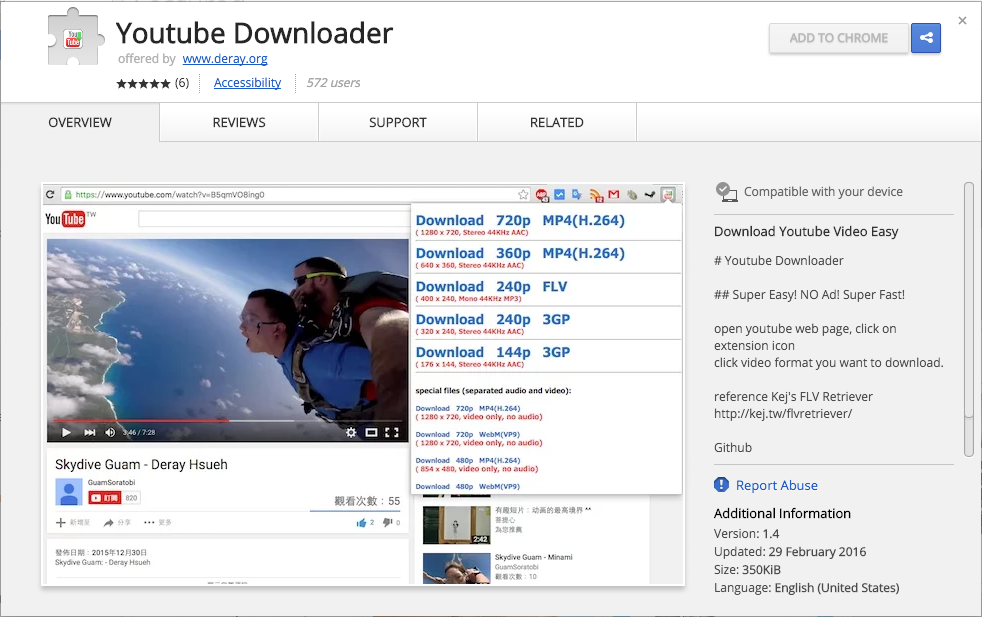
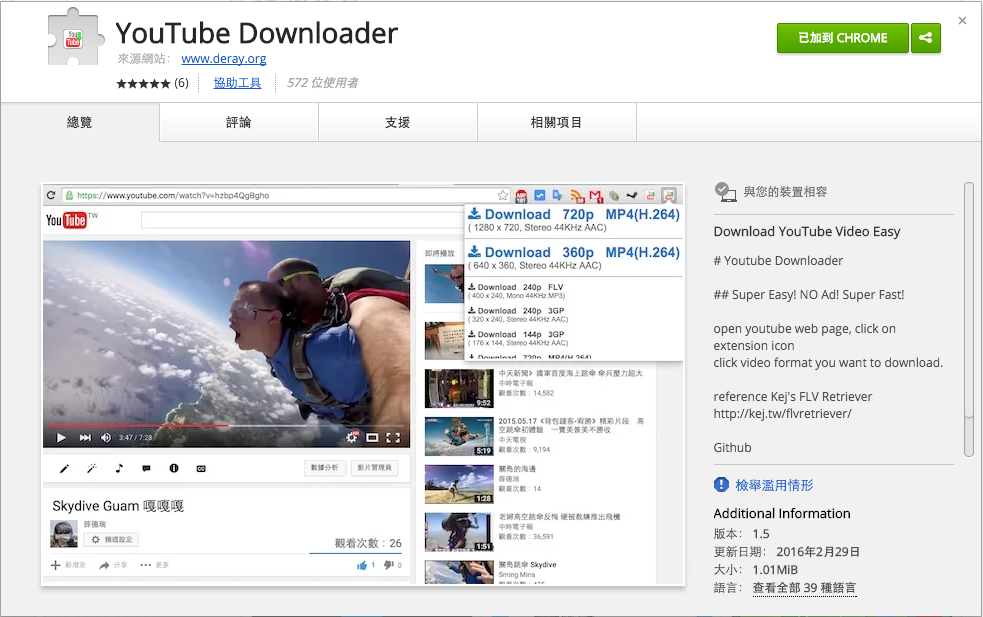
remove redundant js, update snapshot

diff --git a/README.md b/README.md
@@ -10,7 +10,8 @@ http://kej.tw/flvretriever/
 
 
 ## Available on Chrome Web Store
-[https://chrome.google.com/webstore/detail/youtube-downloader](https://chrome.google.com/webstore/detail/youtube-downloader/cdfohfdbcpkphkchoiodmnkcpafbcebk?hl=en-GB)
-![result.png](https://raw.githubusercontent.com/DerayGa/youtube_downloader_chrome_extension/master/images/store.png)
+[https://chrome.google.com/webstore/detail/youtube-downloader](https://chrome.google.com/webstore/detail/youtube-downloader/cdfohfdbcpkphkchoiodmnkcpafbcebk)
 
-![result.png](https://raw.githubusercontent.com/DerayGa/youtube_downloader_chrome_extension/master/images/result.png)
+![store.png](https://raw.githubusercontent.com/DerayGa/youtube_downloader_chrome_extension/master/images/store.png)
+
+![demo.png](https://raw.githubusercontent.com/DerayGa/youtube_downloader_chrome_extension/master/images/demo.png)
